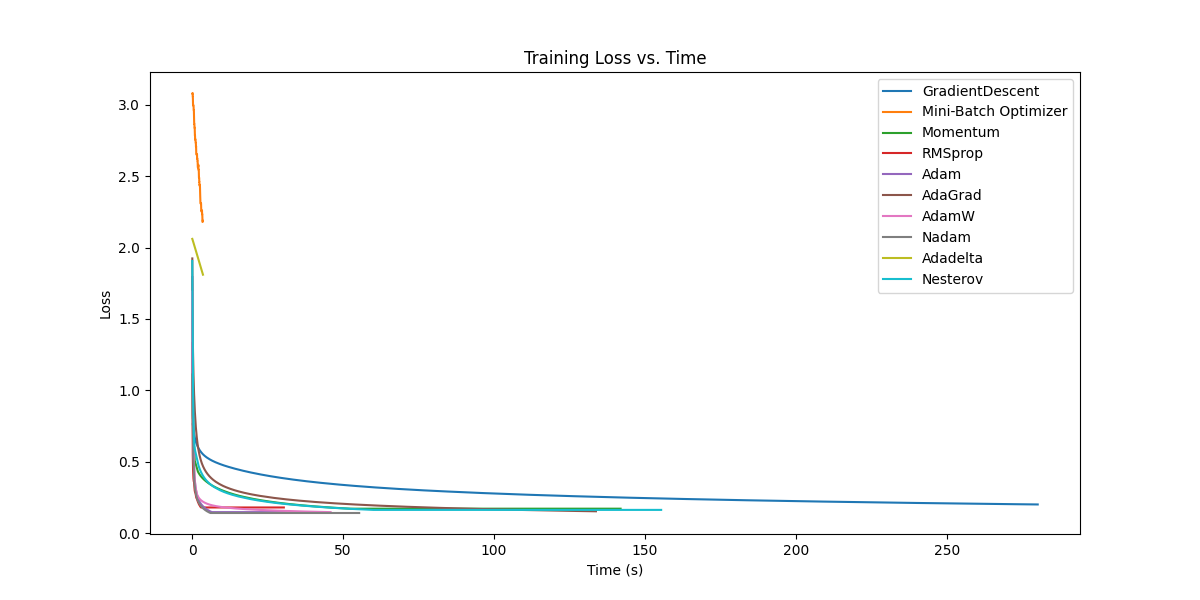
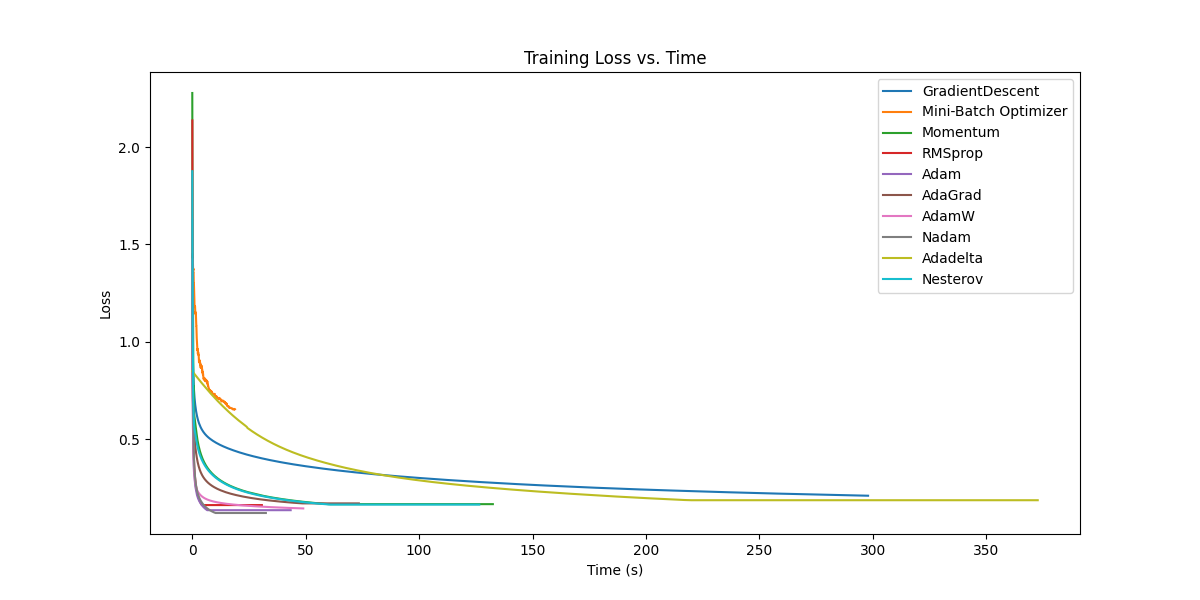
fix time comparison bug

diff --git a/src/visualize.py b/src/visualize.py
@@ -141,7 +141,6 @@ def plot_optimizer_performance(X_train, y_train, X_val, y_val, optimizers, num_e
     plt.legend()
     plt.grid(True)
     plt.savefig('results/plots/compare_optimizers/optimizer_train_loss.png')
-    plt.show()
 
     # Plot validation loss for all optimizers
     plt.figure(figsize=(12, 6))
@@ -153,7 +152,6 @@ def plot_optimizer_performance(X_train, y_train, X_val, y_val, optimizers, num_e
     plt.legend()
     plt.grid(True)
     plt.savefig('results/plots/compare_optimizers/optimizer_val_loss.png')
-    plt.show()
 
     # Plot training F1 score for all optimizers
     plt.figure(figsize=(12, 6))
@@ -165,7 +163,6 @@ def plot_optimizer_performance(X_train, y_train, X_val, y_val, optimizers, num_e
     plt.legend()
     plt.grid(True)
     plt.savefig('results/plots/compare_optimizers/optimizer_train_f1.png')
-    plt.show()
 
     # Plot validation F1 score for all optimizers
     plt.figure(figsize=(12, 6))
@@ -177,7 +174,6 @@ def plot_optimizer_performance(X_train, y_train, X_val, y_val, optimizers, num_e
     plt.legend()
     plt.grid(True)
     plt.savefig('results/plots/compare_optimizers/optimizer_val_f1.png')
-    plt.show()
 
 def visualize_minibatch_optimizer(X_train, y_train, X_val, y_val, optimizer_class, batch_sizes, learning_rates):
     input_size = X_train.shape[1]
@@ -230,7 +226,6 @@ def visualize_minibatch_optimizer(X_train, y_train, X_val, y_val, optimizer_clas
     plt.legend()
     plt.grid(True)
     plt.savefig('results/plots/optimizers/minibatch_optimizer/train_loss.png')
-    plt.show()
 
     # Plot validation loss for different batch sizes and learning rates
     plt.figure(figsize=(12, 6))
@@ -243,7 +238,6 @@ def visualize_minibatch_optimizer(X_train, y_train, X_val, y_val, optimizer_clas
     plt.legend()
     plt.grid(True)
     plt.savefig('results/plots/optimizers/minibatch_optimizer/val_loss.png')
-    plt.show()
 
     # Plot training F1 score for different batch sizes and learning rates
     plt.figure(figsize=(12, 6))
@@ -256,7 +250,6 @@ def visualize_minibatch_optimizer(X_train, y_train, X_val, y_val, optimizer_clas
     plt.legend()
     plt.grid(True)
     plt.savefig('results/plots/optimizers/minibatch_optimizer/train_f1.png')
-    plt.show()
 
     # Plot validation F1 score for different batch sizes and learning rates
     plt.figure(figsize=(12, 6))
@@ -269,7 +262,6 @@ def visualize_minibatch_optimizer(X_train, y_train, X_val, y_val, optimizer_clas
     plt.legend()
     plt.grid(True)
     plt.savefig('results/plots/optimizers/minibatch_optimizer/val_f1.png')
-    plt.show()
 
 def compare_time(result_path):
     with open(result_path, 'r') as f:
@@ -298,31 +290,31 @@ def compare_time(result_path):
     plt.legend()
     plt.grid(True)
     plt.tight_layout()
-    plt.show()
+    plt.savefig('results/plots/compare_optimizers/optimizer_val_loss_time.png')
 
     # Plotting Train F1 Score
     plt.figure(figsize=(12, 6))
     for optimizer, results in optimizers.items():
-        plt.plot(results['epoch_times'][1:], results['train_f1_scores'], label=optimizer)
+        plt.plot(results['epoch_times'], results['train_f1_scores'], label=optimizer)
     plt.title('Training F1 Score vs. Time')
     plt.xlabel('Time (s)')
     plt.ylabel('F1 Score')
     plt.legend()
     plt.grid(True)
     plt.tight_layout()
-    plt.show()
+    plt.savefig('results/plots/compare_optimizers/optimizer_train_f1_time.png')
 
     # Plotting Validation F1 Score
     plt.figure(figsize=(12, 6))
     for optimizer, results in optimizers.items():
-        plt.plot(results['epoch_times'][1:], results['val_f1_scores'], label=optimizer)
+        plt.plot(results['epoch_times'], results['val_f1_scores'], label=optimizer)
     plt.title('Validation F1 Score vs. Time')
     plt.xlabel('Time (s)')
     plt.ylabel('F1 Score')
     plt.legend()
     plt.grid(True)
     plt.tight_layout()
-    plt.show()
+    plt.savefig('results/plots/compare_optimizers/optimizer_val_f1_time.png')
 
 def final_test(X_train, y_train, X_test, y_test, optimizers, num_epochs=100, patience=5):
     """

diff --git a/main.py b/main.py
@@ -33,12 +33,12 @@ optimizers = [
 
 learning_rates = [0.001, 0.01, 0.1]
 batch_sizes = [1, 4, 8, 16, 32, 64]
-l1_lambdas = [0.0, 0.001, 0.01, 1, 2, 5]
+l1_lambdas = [0.0, 0.001, 0.01, 0.1, 1, 2, 5]
 l2_lambdas = [0.0, 0.001, 0.01, 1, 2, 5]
 
 # optimizers_with_lrs_plots(X_train, y_train, X_val, y_val, optimizers, learning_rates)
 # plot_optimizer_performance(X_train, y_train, X_val, y_val, optimizers, num_epochs=10000, patience=100)
 # visualize_minibatch_optimizer(X_train, y_train, X_val, y_val, MiniBatchOptimizer, batch_sizes, learning_rates)
-# compare_time('results/plots/compare_optimizers/optimizer_results.json')
+compare_time('results/plots/compare_optimizers/optimizer_results.json')
 # final_test(X_train, y_train, X_test, y_test, optimizers, num_epochs=10000, patience=100)
-evaluate_with_regularization(X_train, y_train, X_val, y_val, optimizers, num_epochs=10000, patience=100, l1_lambdas=l1_lambdas, l2_lambdas=l2_lambdas)
+# evaluate_with_regularization(X_train, y_train, X_val, y_val, optimizers, num_epochs=10000, patience=100, l1_lambdas=l1_lambdas, l2_lambdas=l2_lambdas)
